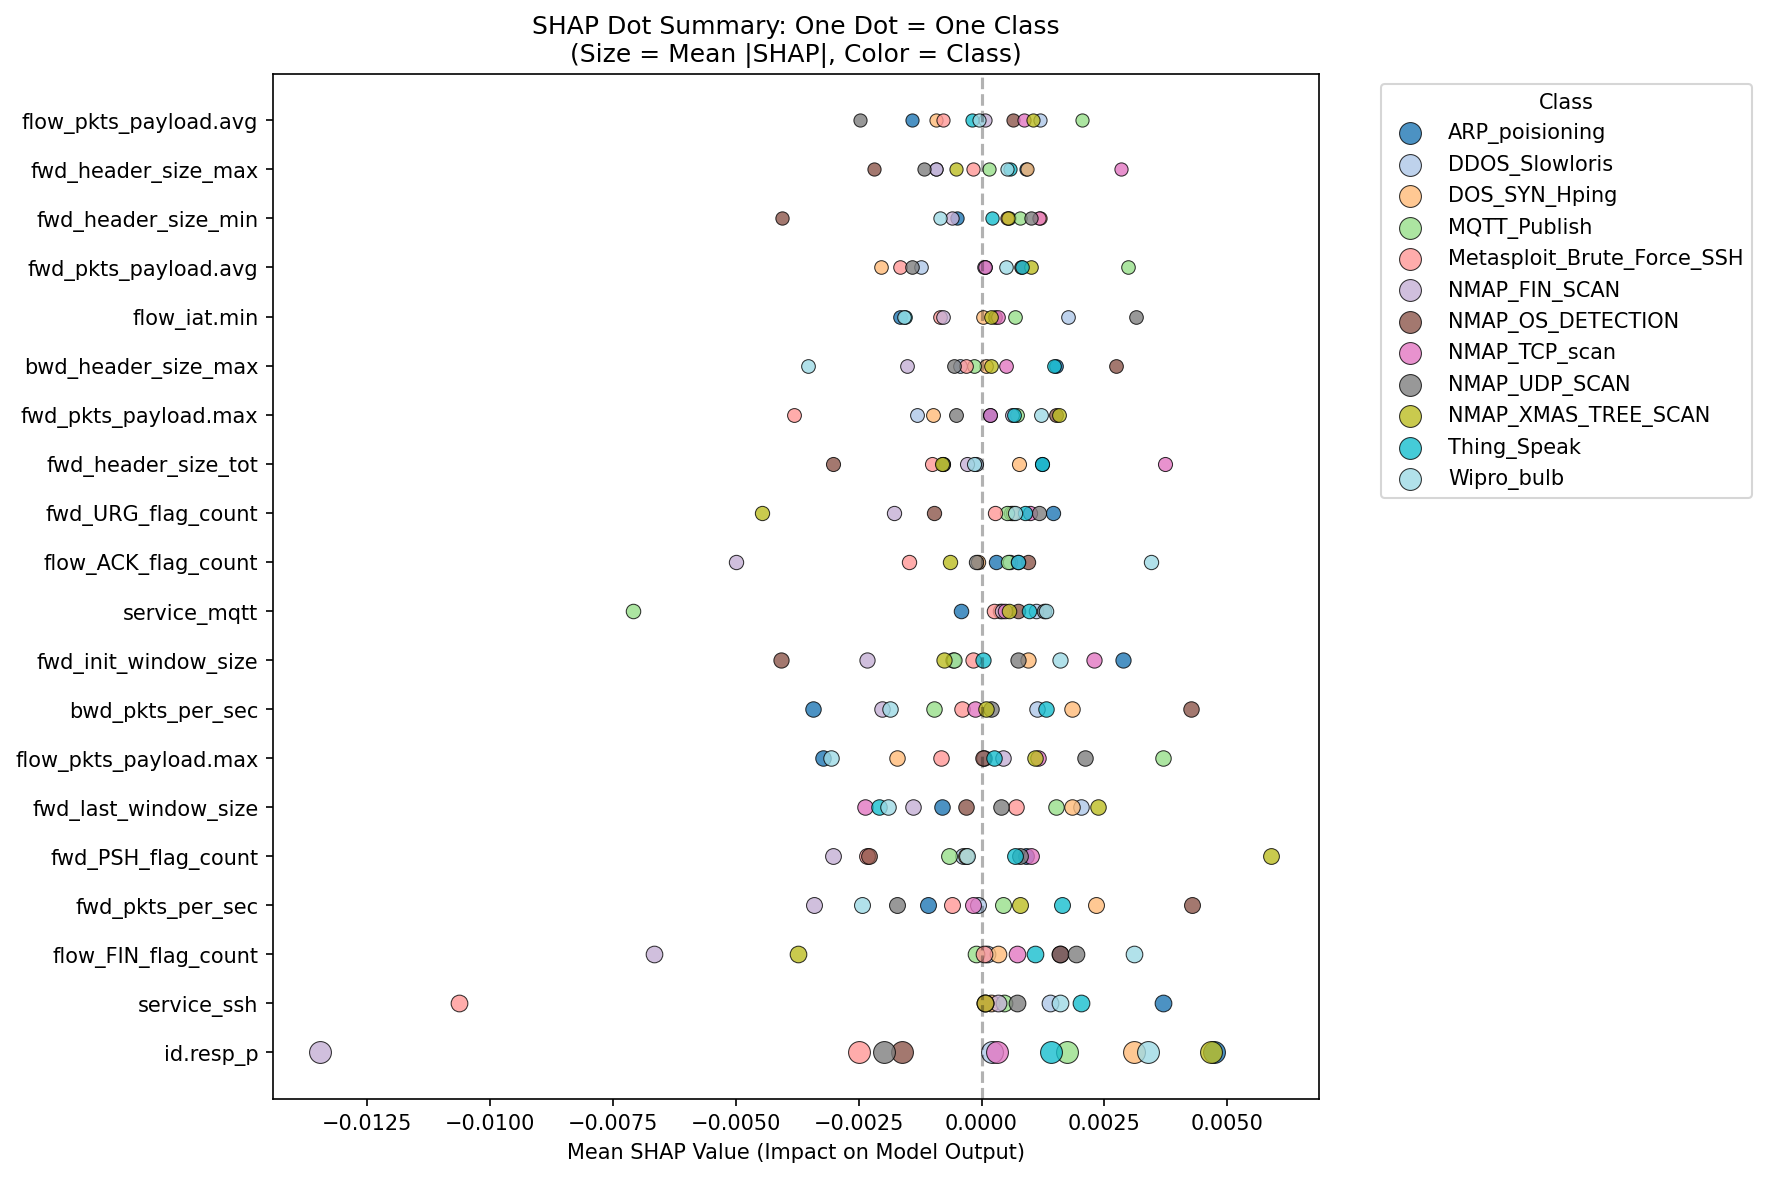
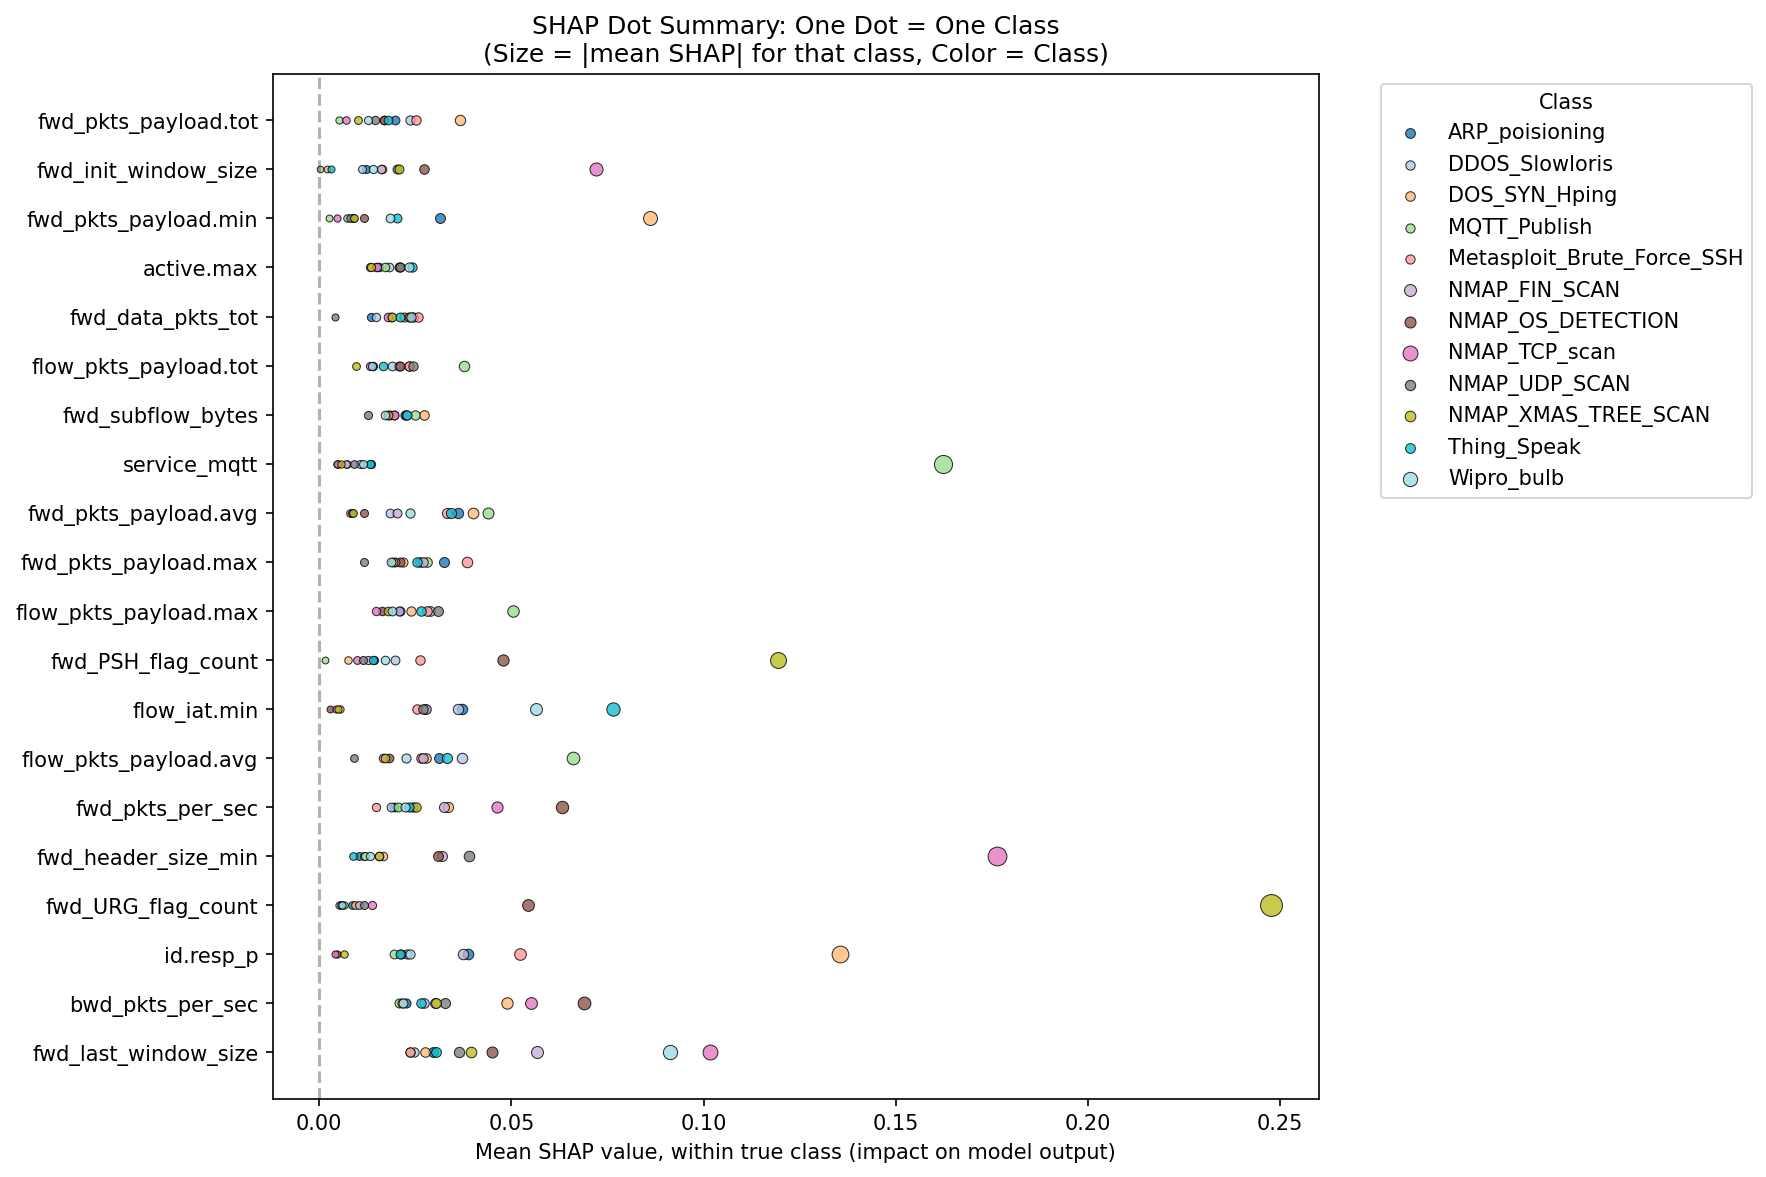
Add Random Forest model with SHAP analysis for IoT flow classification
- Implemented a Random Forest classifier for the RT-IoT2022 dataset achieving 99.86% accuracy and 0.971 F1 score.
- Integrated SHAP analysis to provide interpretable insights into model predictions.
- Added custom dot summary plot for visualizing SHAP values, ensuring class-balanced representation.
- Enhanced data processing pipeline to save necessary artifacts (model, scaler, encoders) for future inference.
- Updated preprocessing functions to return column transformer and feature lists.
- Included new artifacts in the 'artifacts' directory for model deployment.
- Created presentation and paper documents detailing the methodology and results.

diff --git a/model_training.py b/model_training.py
@@ -1,3 +1,4 @@
+import os
 import numpy as np
 from sklearn.model_selection import train_test_split
 from sklearn.ensemble import RandomForestClassifier
@@ -10,10 +11,22 @@ from sklearn.metrics import (
     ConfusionMatrixDisplay,
 )
 import matplotlib.pyplot as plt
+from joblib import dump
 
 
-def train_evaluate(X, y, feature_names, label_encoder):
-    """Train a Random Forest classifier and evaluate on a held-out test set."""
+def train_evaluate(X, y, feature_names, label_encoder,
+                    column_transformer=None, categorical_cols=None, numeric_cols=None,
+                    save_model=False, output_dir='artifacts'):
+    """Train a Random Forest classifier and evaluate on a held-out test set.
+
+    Args:
+        column_transformer: The fitted ColumnTransformer from load_preprocess_data
+            (needed later to one-hot encode new raw flows the same way).
+        categorical_cols, numeric_cols: Column lists from load_preprocess_data
+            (needed to know which raw fields go where when building a new flow's row).
+        save_model: If True, saves every artifact needed for later inference to `output_dir`.
+        output_dir: Directory where all .joblib artifacts are written.
+    """
     X_train, X_test, y_train, y_test = train_test_split(
         X, y, test_size=0.2, random_state=42, stratify=y
     )
@@ -47,6 +60,44 @@ def train_evaluate(X, y, feature_names, label_encoder):
     print(results['classification_report'])
     print("\nUnique classes in y_test:", np.unique(y_test))
     print("Unique classes in y_pred:", np.unique(y_pred))
+
+    # --- Save every artifact needed to preprocess and classify NEW raw flows later ---
+    if save_model:
+        os.makedirs(output_dir, exist_ok=True)
+
+        dump(rf, os.path.join(output_dir, 'random_forest_model.joblib'))
+        dump(scaler, os.path.join(output_dir, 'scaler.joblib'))
+        dump(label_encoder, os.path.join(output_dir, 'label_encoder.joblib'))
+        dump(list(feature_names), os.path.join(output_dir, 'feature_names.joblib'))
+
+        saved_files = [
+            'random_forest_model.joblib',
+            'scaler.joblib',
+            'label_encoder.joblib',
+            'feature_names.joblib',
+        ]
+
+        # These three come from data_processing.py's load_preprocess_data() —
+        # required to encode a brand-new raw flow the same way training data was encoded.
+        if column_transformer is not None:
+            dump(column_transformer, os.path.join(output_dir, 'column_transformer.joblib'))
+            saved_files.append('column_transformer.joblib')
+        else:
+            print("\nWARNING: column_transformer was not provided — new raw flows "
+                  "cannot be one-hot encoded consistently without it. Pass the `ct` "
+                  "returned by load_preprocess_data() to train_evaluate().")
+
+        if categorical_cols is not None:
+            dump(list(categorical_cols), os.path.join(output_dir, 'categorical_cols.joblib'))
+            saved_files.append('categorical_cols.joblib')
+
+        if numeric_cols is not None:
+            dump(list(numeric_cols), os.path.join(output_dir, 'numeric_cols.joblib'))
+            saved_files.append('numeric_cols.joblib')
+
+        print(f"\nSaved {len(saved_files)} inference artifacts to '{output_dir}/':")
+        for fname in saved_files:
+            print(f"  - {output_dir}/{fname}")
 
     # --- Confusion Matrix ---
     all_classes = label_encoder.classes_
@@ -104,5 +155,5 @@ def train_evaluate(X, y, feature_names, label_encoder):
     plt.savefig('confusion_matrix.png', dpi=150, bbox_inches='tight')
     plt.close()
     print("Saved: confusion_matrix.png")
-    
+
     return results, X_train_scaled, X_test_scaled, y_train

diff --git a/shap_analysis.py b/shap_analysis.py
@@ -2,12 +2,13 @@ import numpy as np
 import matplotlib.pyplot as plt
 import shap
 
-def plot_shap_dot_summary(shap_values, X_sample, feature_names, class_names, max_display=20):
+def plot_shap_dot_summary(shap_values, y_sample, feature_names, class_names, max_display=20):
     """
     Custom dot summary plot: one dot per class per feature.
-    - x-axis: Mean SHAP value for the class
+    - x-axis: Mean SHAP value, computed only over samples whose TRUE label
+      is that class (class-conditioned mean) — NOT averaged across all classes.
     - color: Unique color per class (from tab20 colormap)
-    - size: Mean |SHAP| (importance)
+    - size: |mean SHAP| for that specific (feature, class) pair
     - legend: Maps colors to class names
     """
     # Convert shap_values to (n_samples, n_features, n_classes) if needed
@@ -16,10 +17,18 @@ def plot_shap_dot_summary(shap_values, X_sample, feature_names, class_names, max
 
     n_samples, n_features, n_classes = shap_values.shape
 
-    # Compute mean SHAP per class per feature
-    mean_shap = np.mean(shap_values, axis=0)  # (n_features, n_classes)
+    # --- Class-conditioned mean SHAP: average only over each class's own samples ---
+    # (averaging over ALL balanced samples instead of just the class's own samples
+    #  dilutes/flips the sign for features that are rare-but-strong indicators,
+    #  e.g. one-hot service flags)
+    mean_shap = np.zeros((n_features, n_classes))
+    for c in range(n_classes):
+        mask = (y_sample == c)
+        if mask.sum() == 0:
+            continue
+        mean_shap[:, c] = shap_values[mask, :, c].mean(axis=0)
 
-    # Get top features by total mean |SHAP|
+    # Get top features by total conditioned |SHAP| across classes
     feature_order = np.argsort(np.sum(np.abs(mean_shap), axis=1))[::-1][:max_display]
     mean_shap = mean_shap[feature_order]
     feature_names = [feature_names[i] for i in feature_order]
@@ -30,9 +39,9 @@ def plot_shap_dot_summary(shap_values, X_sample, feature_names, class_names, max
     # Use a colormap with enough distinct colors for all classes
     colors = plt.cm.tab20(np.linspace(0, 1, n_classes))
 
-    # Normalize dot sizes for visibility
-    sizes = np.abs(mean_shap).mean(axis=1)
-    sizes = 100 * (sizes / sizes.max()) + 10  # Scale to [10, 110]
+    # Per-(feature, class) dot size — NOT collapsed across classes anymore
+    sizes_matrix = np.abs(mean_shap)
+    sizes_matrix = 100 * (sizes_matrix / sizes_matrix.max()) + 10  # Scale to [10, 110]
 
     # Plot one dot per class per feature
     for j, class_name in enumerate(class_names):
@@ -40,7 +49,7 @@ def plot_shap_dot_summary(shap_values, X_sample, feature_names, class_names, max
             shap_val = mean_shap[i, j]
             ax.scatter(
                 shap_val, i,
-                s=sizes[i],
+                s=sizes_matrix[i, j],
                 c=[colors[j]],  # Unique color per class
                 alpha=0.8,
                 edgecolors='black',
@@ -50,8 +59,8 @@ def plot_shap_dot_summary(shap_values, X_sample, feature_names, class_names, max
 
     ax.set_yticks(range(len(feature_names)))
     ax.set_yticklabels(feature_names)
-    ax.set_xlabel('Mean SHAP Value (Impact on Model Output)')
-    ax.set_title('SHAP Dot Summary: One Dot = One Class\n(Size = Mean |SHAP|, Color = Class)')
+    ax.set_xlabel('Mean SHAP value, within true class (impact on model output)')
+    ax.set_title('SHAP Dot Summary: One Dot = One Class\n(Size = |mean SHAP| for that class, Color = Class)')
     ax.axvline(0, color='black', linestyle='--', alpha=0.3)
 
     # Add legend outside the plot
@@ -89,13 +98,17 @@ def shap_analysis(results, X_train_scaled, y_train, feature_names, label_encoder
     # --- 1. Class-balanced sample (this is the actual fix) ---
     rng = np.random.default_rng(42)
     idx_parts = []
+    y_sample_parts = []
     for c in range(n_classes):
         class_idx = np.where(y_train == c)[0]
         if len(class_idx) == 0:
             continue
         take = min(n_samples_per_class, len(class_idx))
-        idx_parts.append(rng.choice(class_idx, size=take, replace=False))
+        chosen = rng.choice(class_idx, size=take, replace=False)
+        idx_parts.append(chosen)
+        y_sample_parts.append(np.full(take, c))
     sample_idx = np.concatenate(idx_parts)
+    y_sample = np.concatenate(y_sample_parts)  # true class label per row of X_sample
     X_sample = X_train_scaled[sample_idx]
 
     explainer = shap.TreeExplainer(model)
@@ -200,13 +213,7 @@ def shap_analysis(results, X_train_scaled, y_train, feature_names, label_encoder
     print("Saved: normalized_shap_feature_importance.png")
 
     # --- Dot summary plot: also use the balanced sample ---
-    fig_height = max(12, n_features * 0.55 + 3)
-    fig, ax = plt.subplots(figsize=(18, fig_height))
-
-    plot_shap_dot_summary(shap_values, X_sample, feature_names, label_encoder.classes_)
-    ax = plt.gca()
-    ax.set_title('SHAP Summary Plot - Random Forest (class-balanced)', fontsize=18, pad=15)
-    plt.tight_layout(rect=[0, 0, 0.88, 1])
-    plt.close()
+    plot_shap_dot_summary(shap_values, y_sample, feature_names, label_encoder.classes_)
+    print("Saved: shap_dot_summary.png")
 
     return shap_values, X_sample

diff --git a/classifier.py b/classifier.py
@@ -4,10 +4,14 @@ from shap_analysis import shap_analysis
 
 if __name__ == "__main__":
     # preprocess the data
-    X_encoded, y_encoded, feature_names, label_encoder, categorical_cols, numeric_cols = load_preprocess_data()
-    # train the model
+    X_encoded, y_encoded, feature_names, label_encoder, categorical_cols, numeric_cols, ct = load_preprocess_data()
+
+    # train the model and save every artifact needed for later inference
     results, X_train_scaled, X_test_scaled, y_train = train_evaluate(
-        X_encoded, y_encoded, feature_names, label_encoder
+        X_encoded, y_encoded, feature_names, label_encoder,
+        column_transformer=ct, categorical_cols=categorical_cols, numeric_cols=numeric_cols,
+        save_model=True, output_dir='artifacts'
     )
+
     # perform SHAP analysis
     shap_analysis(results, X_train_scaled, y_train, feature_names, label_encoder)

diff --git a/data_processing.py b/data_processing.py
@@ -48,4 +48,4 @@ def load_preprocess_data():
         derived_features = [f for f in one_hot_feature_names if f.startswith(col)]
         print(f"- Original column '{col}' was expanded into: {derived_features}")
 
-    return X_encoded, y_encoded, encoded_feature_names, label_encoder, categorical_cols, numeric_cols
+    return X_encoded, y_encoded, encoded_feature_names, label_encoder, categorical_cols, numeric_cols, ct